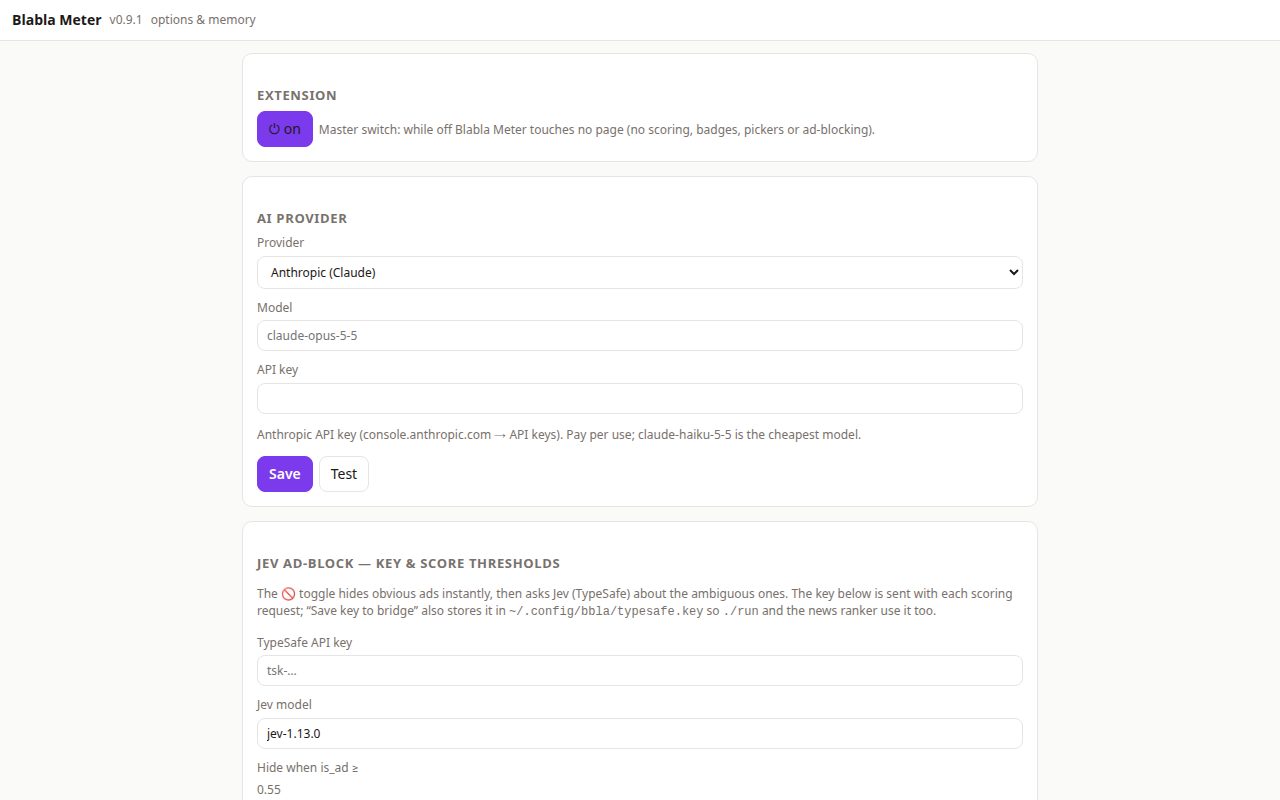
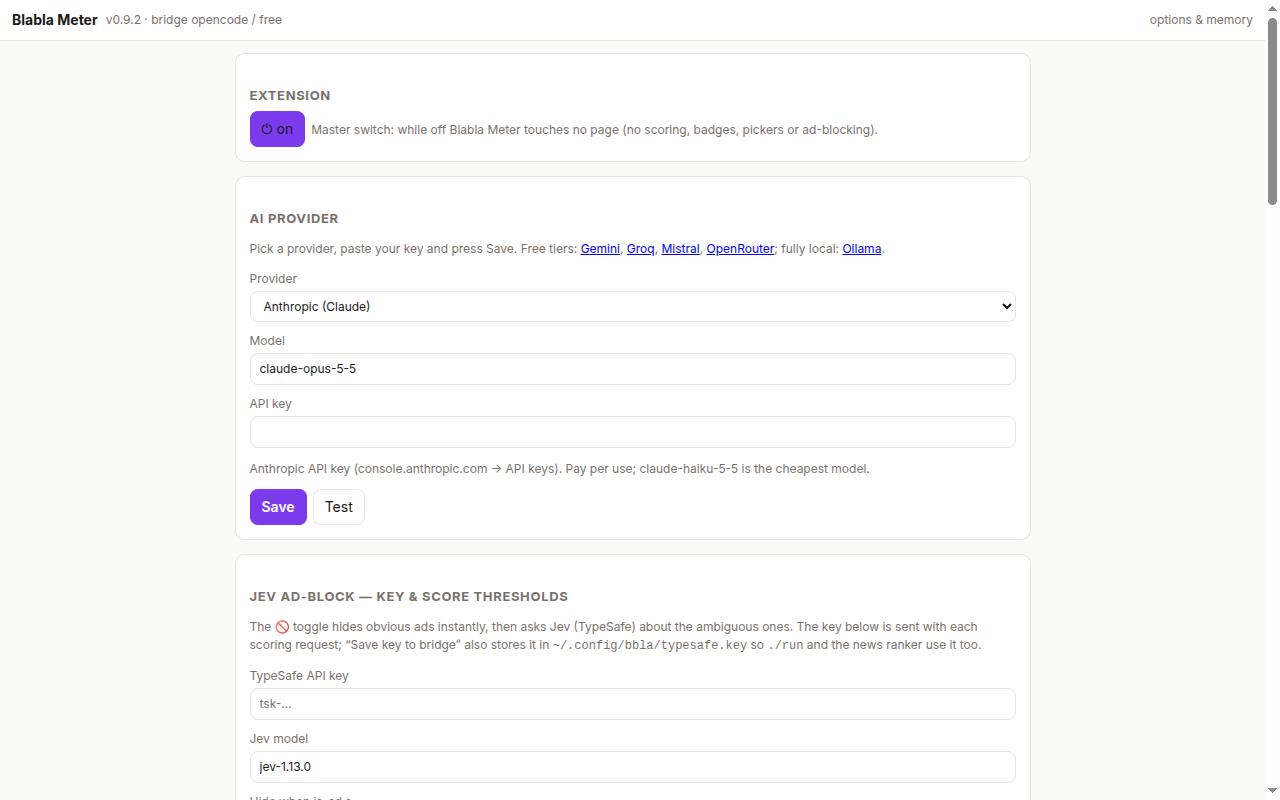
Release 0.9.2: first-run setup, support links, MIT license

diff --git a/extension/sidepanel.js b/extension/sidepanel.js
@@ -1,12 +1,15 @@
 const $ = (id) => document.getElementById(id);
 const esc = (s) => String(s ?? "").replace(/[&<>"']/g, (c) => ({ "&": "&amp;", "<": "&lt;", ">": "&gt;", '"': "&quot;", "'": "&#39;" }[c]));
 
-import { DEFAULT_SETTINGS } from "./lib/ai.js";
+import { DEFAULT_SETTINGS, PROVIDERS, keyFor } from "./lib/ai.js";
 
 let tab = null;
 let fast = null;      // instant Jev score (no generative AI)
 let analysis = null;  // on-demand LLM deep dive (verdict, pareto, highlights)
 let vote = 0;
+let bridgeUp = null;        // null until checked; false = local helper not running
+let hasProvider = true;     // can the configured AI provider answer right now?
+let primaryAction = "fast"; // fast | deep | setup
 
 function send(msg) {
   return new Promise((resolve, reject) => {
@@ -28,6 +31,65 @@ async function currentTab() {
   return t;
 }
 
+async function bridgeBase() {
+  const { settings } = await chrome.storage.local.get("settings");
+  return (((settings || {}).bridgeUrl) || DEFAULT_SETTINGS.bridgeUrl).replace(/\/+$/, "");
+}
+
+/* The instant score/badges need the optional local helper; the news reader is
+   another local app. Check both so the panel doesn't offer dead actions. */
+async function checkBridge() {
+  try {
+    const r = await fetch((await bridgeBase()) + "/health", { signal: AbortSignal.timeout(1500) });
+    bridgeUp = r.ok;
+  } catch {
+    bridgeUp = false;
+  }
+  try {
+    // no-cors: the news app has no CORS headers; resolving at all means it is up.
+    await fetch("http://127.0.0.1:8805/", { mode: "no-cors", signal: AbortSignal.timeout(1200) });
+    $("news-link").hidden = false;
+  } catch {
+    $("news-link").hidden = true;
+  }
+  return bridgeUp;
+}
+
+async function providerReady() {
+  const { settings } = await chrome.storage.local.get("settings");
+  const s = { ...DEFAULT_SETTINGS, ...(settings || {}) };
+  const p = PROVIDERS[s.provider] || PROVIDERS.zen;
+  if (s.provider === "bridge") return bridgeUp === true;
+  if (s.provider === "ollama") return !!s.model;
+  if (s.provider === "custom") return !!s.baseUrl;
+  return !p.needsKey || !!keyFor(s);
+}
+
+function setPrimary(action, label, title = "") {
+  primaryAction = action;
+  $("btn-analyze").textContent = label;
+  $("btn-analyze").title = title;
+}
+
+async function refreshSetup() {
+  hasProvider = await providerReady();
+  const bridgeDown = bridgeUp === false;
+  const show = !hasProvider || bridgeDown;
+  $("setup").hidden = !show;
+  if (show) {
+    $("setup-msg").textContent = !hasProvider
+      ? "Pick an AI provider in Options, paste your key, and come back. Gemini, Groq, Mistral and OpenRouter have free tiers; Ollama runs locally."
+      : "The instant score and section badges need the optional local helper. AI summary & highlights works with your configured provider.";
+    $("setup-open").textContent = "⚙ Options";
+    $("setup-key").hidden = hasProvider;
+  }
+  if (!hasProvider) setPrimary("setup", "Set up your AI", "Choose an AI provider in Options");
+  else if (bridgeDown) setPrimary("deep", "AI summary & highlights", "The instant score needs the local helper; this runs the AI deep dive.");
+  else setPrimary("fast", "Score this page", "");
+  // Don't show a second, identical deep-dive button when the primary is already it.
+  if (primaryAction !== "fast") $("btn-deep").hidden = true;
+}
+
 async function onTabChange() {
   const t = await currentTab();
   if (!t || (tab && t.id === tab.id && t.url === tab.url)) return;
@@ -41,6 +103,7 @@ async function onTabChange() {
     return;
   }
   showUsage(t.url);
+  await refreshSetup();
   $("result").hidden = true;
   $("deep").hidden = true;
   $("btn-deep").hidden = true;
@@ -64,15 +127,17 @@ async function onTabChange() {
     }
     // Same URL but a different body (hydration, SPA navigation, live feed):
     // re-score instead of showing a stale number.
-    try {
-      const st = await send({ type: "pageStats", tabId: t.id });
-      const old = fast.chars || 0;
-      if (old > 0 && Math.abs(st.chars - old) / old > 0.35) {
-        status("Page content changed — updating score…");
-        await scoreFast();
-      }
-    } catch {}
-  } else {
+    if (hasProvider && bridgeUp !== false) {
+      try {
+        const st = await send({ type: "pageStats", tabId: t.id });
+        const old = fast.chars || 0;
+        if (old > 0 && Math.abs(st.chars - old) / old > 0.35) {
+          status("Page content changed — updating score…");
+          await scoreFast();
+        }
+      } catch {}
+    }
+  } else if (hasProvider && bridgeUp !== false) {
     scoreFast();
   }
   // re-apply ad-blocking on the new page while the toggle stays ON
@@ -93,8 +158,7 @@ async function showUsage(url) {
   const box = $("usage");
   box.hidden = true;
   if (!/^https?:/.test(url || "")) return;
-  const { settings } = await chrome.storage.local.get("settings");
-  const base = ((settings && settings.bridgeUrl) || DEFAULT_SETTINGS.bridgeUrl).replace(/\/+$/, "");
+  const base = await bridgeBase();
   let u;
   try {
     const r = await fetch(`${base}/usage/site?url=${encodeURIComponent(url)}`, { signal: AbortSignal.timeout(2500) });
@@ -137,13 +201,16 @@ async function scoreFast() {
   } catch (e) {
     if (e.message === "NO_JEV_KEY") {
       // No TypeSafe key: fall back to the full AI analysis (old behavior).
-      status("No Jev key — running the full AI analysis instead (set a TypeSafe key in ⚙ Options → Jev ad-block for the instant score).");
+      status("The instant score needs a TypeSafe/Jev key — running the full AI analysis instead (⚙ Options → Jev ad-block).");
       await analyze(true);
       status("");
     } else if (e.message === "NO_BRIDGE") {
       // Store installs usually run without the local bridge: not an error.
-      status("The instant score needs the local helper (see the README). Use “AI summary & highlights” for the full analysis.");
-      $("btn-deep").hidden = false;
+      bridgeUp = false;
+      await refreshSetup();
+      status(hasProvider
+        ? "The instant score needs the optional local helper. Use “AI summary & highlights”."
+        : "The instant score needs the optional local helper. Set up a provider in ⚙ Options.");
     } else {
       status(e.message + await autoLog("score-failed", e), true);
       $("btn-deep").hidden = false; // the deep dive may still work via a cloud provider
@@ -224,7 +291,7 @@ async function showScore(f) {
   $("outline-box").open = false;
   $("outline").innerHTML = heads.map((h) =>
     `<li data-hid="${esc(h.id)}" style="margin-left:${(h.level - 1) * 10}px">${esc(h.text)}</li>`).join("");
-  $("btn-deep").hidden = false;
+  $("btn-deep").hidden = primaryAction !== "fast";
   $("deep-status").textContent = "";
   let badges = 0;
   if (tab) badges = await send({ type: "showBlocks", tabId: tab.id, url: f.url }).catch(() => 0);
@@ -276,7 +343,11 @@ async function sendFeedback(extra = {}) {
   }
 }
 
-$("btn-analyze").onclick = () => scoreFast();
+$("btn-analyze").onclick = () => {
+  if (primaryAction === "deep") return deepDive();
+  if (primaryAction === "setup") return chrome.tabs.create({ url: chrome.runtime.getURL("options.html") });
+  return scoreFast();
+};
 $("btn-deep").onclick = () => deepDive();
 $("btn-clear").onclick = async () => {
   if (!extOn) return; // power button already cleared the page when switching off
@@ -498,6 +569,7 @@ $("highlights").onclick = async (e) => {
 chrome.tabs.onActivated.addListener(onTabChange);
 chrome.tabs.onUpdated.addListener((_id, info) => { if (info.status === "complete" || info.url) { tab = null; onTabChange(); } });
 chrome.storage.onChanged.addListener((changes, area) => {
+  if (area === "local" && changes.settings) refreshSetup().catch(() => {});
   if (area === "local" && changes.settings && changes.settings.newValue && "enabled" in changes.settings.newValue) {
     extOn = changes.settings.newValue.enabled !== false;
     paintPower();
@@ -509,5 +581,11 @@ chrome.storage.onChanged.addListener((changes, area) => {
     }
   }
 });
-refreshPower().then(() => { onTabChange(); refreshAds(); });
+(async () => {
+  await refreshPower();
+  await checkBridge();
+  await refreshSetup();
+  await onTabChange();
+  refreshAds();
+})().catch((e) => status(e.message, true));
 paintMarks();

diff --git a/extension/options.html b/extension/options.html
@@ -7,7 +7,7 @@
 <link rel="stylesheet" href="ui.css">
 </head>
 <body>
-<header class="top"><strong>Blabla Meter</strong><span id="ext-version" class="muted small"></span><span class="muted small">options & memory</span></header>
+<header class="top"><strong>Blabla Meter</strong><span id="ext-version" class="muted small"></span><span class="muted small" style="margin-left:auto">options & memory</span></header>
 <main>
   <section class="card">
     <h3>Extension</h3>
@@ -18,6 +18,12 @@
   </section>
   <section class="card">
     <h3>AI provider</h3>
+    <p class="muted small">Pick a provider, paste your key and press Save. Free tiers:
+      <a href="https://aistudio.google.com/app/apikey" target="_blank" rel="noopener">Gemini</a>,
+      <a href="https://console.groq.com/keys" target="_blank" rel="noopener">Groq</a>,
+      <a href="https://console.mistral.ai/api-keys/" target="_blank" rel="noopener">Mistral</a>,
+      <a href="https://openrouter.ai/keys" target="_blank" rel="noopener">OpenRouter</a>;
+      fully local: <a href="https://ollama.com" target="_blank" rel="noopener">Ollama</a>.</p>
     <label>Provider <select id="provider"></select></label>
     <label>Model <input id="model" placeholder="default"></label>
     <label id="key-wrap">API key <input id="key" type="password" autocomplete="off"></label>
@@ -105,7 +111,7 @@
     <ol id="feedback" class="small"></ol>
   </section>
 
-  <section class="card">
+  <section class="card" id="dev-card" hidden>
     <h3>Developer</h3>
     <div class="row">
       <button id="reload-ext" type="button" title="Reload the extension code from disk — same as the ↻ button on brave://extensions">↻ Reload extension</button>
@@ -116,10 +122,18 @@
   <section class="card">
     <h3>Support Blabla Meter</h3>
     <div class="row">
-      <a class="btn primary" href="https://buymeacoffee.com/maths-oliveira" target="_blank" rel="noopener">☕ Buy me a coffee</a>
-      <span class="muted small">Blabla Meter is free and runs locally. If it saves you time, a coffee keeps it going.</span>
+      <a class="btn primary" href="https://buymeacoffee.com/maths.oliveira" target="_blank" rel="noopener">☕ Buy me a coffee</a>
+      <span class="muted small">Blabla Meter is free and runs locally. If it saves you time, a coffee keeps it going.
+      If the coffee page is unavailable, email <a href="mailto:so.matheus@proton.me">so.matheus@proton.me</a>.</span>
     </div>
   </section>
+
+  <footer class="muted small" style="display:flex;gap:12px;justify-content:center;flex-wrap:wrap;margin:22px 0 8px">
+    <a href="https://github.com/maths-oliveira/blabla-meter/blob/main/PRIVACY.md" target="_blank" rel="noopener">Privacy</a>
+    <a href="https://github.com/maths-oliveira/blabla-meter/issues" target="_blank" rel="noopener">Report an issue</a>
+    <a href="mailto:so.matheus@proton.me">Email</a>
+    <span>MIT licensed</span>
+  </footer>
 </main>
 <script type="module" src="options.js"></script>
 </body>

diff --git a/extension/sidepanel.html b/extension/sidepanel.html
@@ -11,13 +11,23 @@
   <strong>Blabla Meter</strong>
   <button id="btn-power" type="button" title="Turn the whole extension on/off (no scoring, badges or ad-blocking while off)">⏻ on</button>
   <span id="page-title" class="muted small ellipsis"></span>
-  <a href="http://127.0.0.1:8805/" target="_blank" class="icon-btn" title="Useful news: ranked with the same preferences (news/, start with bbla/run)">📰</a>
+  <a id="news-link" href="http://127.0.0.1:8805/" target="_blank" class="icon-btn" title="Useful news: ranked with the same preferences (news/, start with bbla/run)" hidden>📰</a>
   <a href="options.html" target="_blank" class="icon-btn" title="Options & memory">⚙</a>
-  <a href="https://buymeacoffee.com/maths-oliveira" target="_blank" rel="noopener" class="icon-btn" title="Like Blabla Meter? Buy me a coffee">☕</a>
+  <a href="https://buymeacoffee.com/maths.oliveira" target="_blank" rel="noopener" class="icon-btn" title="Like Blabla Meter? Buy me a coffee">☕</a>
 </header>
 
 <main>
   <section id="usage" class="usage" hidden></section>
+
+  <section id="setup" class="card" hidden>
+    <h3>Set up your AI</h3>
+    <p id="setup-msg" class="muted small"></p>
+    <div class="row">
+      <a id="setup-open" class="btn" href="options.html" target="_blank">⚙ Options</a>
+      <a id="setup-key" class="btn" href="https://aistudio.google.com/app/apikey" target="_blank" rel="noopener">Free Gemini key ↗</a>
+    </div>
+  </section>
+
   <div class="row">
     <button id="btn-analyze" class="primary grow" type="button">Score this page</button>
     <button id="btn-clear" type="button" title="Remove highlight marks and section score badges from the page (scores and memory are kept)">✕ marks</button>

diff --git a/extension/options.js b/extension/options.js
@@ -31,6 +31,9 @@ function send(msg) {
 }
 
 async function load() {
+  // Developer tools (reload button) are for editing the extension from disk,
+  // not for store users: open options.html?dev=1 to see that card.
+  $("dev-card").hidden = !new URLSearchParams(location.search).has("dev");
   const data = await chrome.storage.local.get(["settings", "memory"]);
   settings = { ...DEFAULT_SETTINGS, ...(data.settings || {}) };
   if (settings.enabled === undefined) settings.enabled = true;

diff --git a/README.md b/README.md
@@ -2,7 +2,8 @@
 
 *Internal name (code, config dirs, storage): `bbla`.*
 
-[![Buy me a coffee](https://img.shields.io/badge/Buy%20me%20a%20coffee-%E2%98%95-FFDD00?logo=buymeacoffee&logoColor=black)](https://buymeacoffee.com/maths-oliveira)
+[![Chrome Web Store](https://img.shields.io/badge/Chrome%20Web%20Store-Install-4285F4?logo=googlechrome&logoColor=white)](https://chromewebstore.google.com/detail/blabla-meter/emjbfdcigbfojhdipapdjaanlkhcjoai)
+[![Buy me a coffee](https://img.shields.io/badge/Buy%20me%20a%20coffee-%E2%98%95-FFDD00?logo=buymeacoffee&logoColor=black)](https://buymeacoffee.com/maths.oliveira)
 
 Reads the page you're on and tells you how much of it is worth your attention:
 
@@ -76,14 +77,20 @@ python3 usage/build_report.py --collect  # also pull a fresh usagestats snapshot
 Categories, regex rules and scores: `usage/categories.json`. Private data stays local and git-ignored
 (`usage/brave_history.db`, `usage/data/`, `usage/dashboard.html`).
 
-## Install (Brave)
+## Install
+
+### Chrome Web Store (recommended)
+
+[Install Blabla Meter](https://chromewebstore.google.com/detail/blabla-meter/emjbfdcigbfojhdipapdjaanlkhcjoai) — works in Chrome, Brave, Edge and other Chromium browsers. No build step, no helper needed for the AI summary; the optional local helper adds the instant score, section badges and ad-block.
+
+### From source (development)
 
 Brave is Chromium under the hood, so the MV3 extension loads as-is — no build step.
 
 1. `brave://extensions` → enable **Developer mode** (top right).
 2. Either **Load unpacked** → pick `bbla/extension/`, or drag-and-drop the packaged zip:
    `./extension/build_zip.sh` → `blabla-meter-<version>.zip`.
-3. Click the Blabla Meter icon (or **Alt+B**) on any page → the side panel opens → **Analyze this page**.
+3. Click the Blabla Meter icon (or **Alt+B**) on any page → the side panel opens → **Score this page**.
    Optional: pin the icon via the 🧩 puzzle piece → 📌.
 4. ⚙ Options → choose the AI provider:
 
@@ -129,7 +136,12 @@ node --test tests/*.test.mjs
 
 End-to-end was verified with Playwright loading the unpacked extension in Chromium against the bridge.
 
+## License
+
+MIT — see [LICENSE](LICENSE). Copy it, fork it, ship it.
+
 ## Support
 
-If Blabla Meter saves you time, you can [buy me a coffee ☕](https://buymeacoffee.com/maths-oliveira) — also linked
-from the side panel header (☕) and the bottom of ⚙ Options.
+If Blabla Meter saves you time, you can [buy me a coffee ☕](https://buymeacoffee.com/maths.oliveira) — also linked
+from the side panel header (☕) and the bottom of ⚙ Options. If the coffee page is unavailable, email
+[so.matheus@proton.me](mailto:so.matheus@proton.me) or [open an issue](https://github.com/maths-oliveira/blabla-meter/issues).

diff --git a/store/listing.md b/store/listing.md
@@ -2,6 +2,10 @@
 
 Copy-paste source for the developer dashboard. Keep in sync with `extension/manifest.json` and `PRIVACY.md`.
 
+> The live listing (23 Oct 2026) still shows a shortened **BRING YOUR OWN AI** paragraph
+> ("Claude, OpenAI, Gemini, etc"). Paste the full text below on the next dashboard update —
+> the free tiers and the local option are the strongest selling points.
+
 ## Store listing tab
 
 **Name** (from the manifest): Blabla Meter
@@ -12,6 +16,10 @@ How much of this page is useful? Blabla score, summary and bullshit highlighter 
 **Category:** Productivity → Tools
 
 **Language:** English
+
+**Homepage:** https://github.com/maths-oliveira/blabla-meter
+
+**Support:** https://github.com/maths-oliveira/blabla-meter/issues
 
 **Description:**
 
@@ -88,3 +96,6 @@ Visibility: Public. Regions: all.
 ## Upload
 
 `./extension/build_zip.sh --out .` → `blabla-meter-<version>.zip`. Bump `version` in `extension/manifest.json` before each new upload.
+
+For 0.9.2, also re-upload `store/screenshots/3-choose-your-ai.png` (the old capture says
+"Anthroic" instead of "Anthropic") and add the Support/Homepage URLs above in the dashboard.
